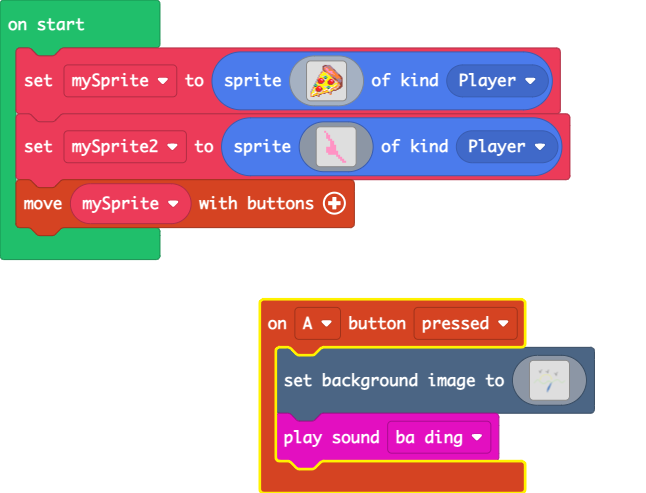
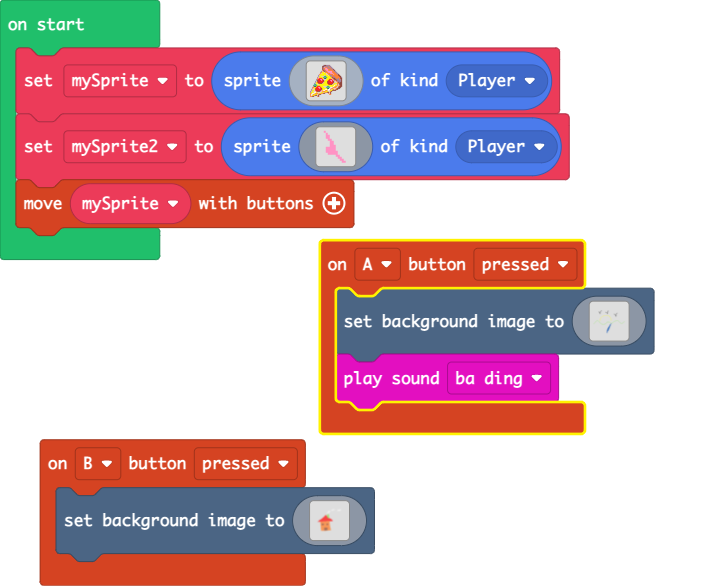
Update main.blocks, main.ts, images.g.jres, images.g.ts

diff --git a/main.ts b/main.ts
@@ -1,3 +1,127 @@
+controller.B.onEvent(ControllerButtonEvent.Pressed, function () {
+    scene.setBackgroundImage(img`
+        ................................................................................................................................................................
+        ..................................................................................................1.............................................................
+        .................................................................................................11..................................11.........................
+        ................................................................................................1.1...11...........................111..........................
+        ...............................................................................................11.1..1.1..................1.......1..11.........................
+        .............................................................................................1.1.1..1..1..11.............11......1....1.........................
+        ............................................................................................1111.1.1...111..............1.111...111..1111.......................
+        ...........................................................................................1111.1.1...11.................11.1.11.111111.........................
+        ..........................................................................................1111..11....1.................11.1111111111111........................
+        .........................................................................................1111..1.......................11..111111111............................
+        ................................................................................11.......1.............................1.....11.................................
+        ...........................................................................111.11...........................................1...................................
+        ..........................................................................1.1..1................................................................................
+        .........................................................................111.1111...............................................................................
+        .........................................................................1.111111...............................................................................
+        ........................................................................111..1.11...............................................................................
+        ........................................................................11...11.1...............................................................................
+        ......................................................................111...111.1...............................................................................
+        ......................................................................11....11..1...............................................................................
+        .....................................................................1.1....1..1................................................................................
+        .....................................................................111...11.1.................................................................................
+        ....................................................................11.1..1111..................................................................................
+        ...................................................................11..1...1....................................................................................
+        ...................................................................11..1........................................................................................
+        ..................................................................11............................................................................................
+        ................................................................................................................................................................
+        ................................................................................................................................................................
+        ................................................................................................................................................................
+        ................................................................................................................................................................
+        ........................................................................7777....................................................................................
+        ....................................................................77777777....................................................................................
+        ....................................................................77777777....................................................................................
+        ............................................................22.......7777777....................................................................................
+        ............................................................22.......7777777....................................................................................
+        ...........................................................2222......7777777....................................................................................
+        ..........................................................2222222....7777777....................................................................................
+        .........................................................222222222...7777777....................................................................................
+        ........................................................22222222222..7777777....................................................................................
+        .......................................................222222222222..7777777....................................................................................
+        ......................................................2.222222222222..7777777...................................................................................
+        .....................................................222222222222222277777777...................................................................................
+        ....................................................2222222222222222277777777...................................................................................
+        ...................................................2.222222222222222227777777...................................................................................
+        ..................................................222222222222222222227777777...................................................................................
+        .................................................2222222222222222222222777777...................................................................................
+        ................................................22222222222222222222222277777...................................................................................
+        ..............................................2222222222222222222222222222777...................................................................................
+        .............................................22222222222222222222222222222277...................................................................................
+        ............................................22222222222222222222222222222222222.................................................................................
+        ...........................................2.222222222222222222222222222222222222...............................................................................
+        ..........................................222222222222222222222222222222222222222222............................................................................
+        ........................................222222222222222222222222222222222222222222222...........................................................................
+        .......................................222222222222222222222222222222222222222222222222.........................................................................
+        ......................................222222222222222222222222222222222222222222222222222.......................................................................
+        ....................................222222222222222222222222222222222222222222222222222222......................................................................
+        ..................................22.222222222222222222222222222222222222222222222222222222.....................................................................
+        ................................22.222222222222222222222222222222222222222222222222222222222....................................................................
+        ...............................22222222222222222222222222222222222222222222222222222222222222...................................................................
+        .............................22222222222222222222222222222222222222222222222222222222222222222..................................................................
+        ............................222222222222222222222222222222222222222222222222222222222222222222..................................................................
+        ...........................22222222222222222222222222222222222222222222222222222222222222222222.................................................................
+        ..........................2222222222222222222222222222222222222222222222222222222222222222222222................................................................
+        .........................2222222222222222222222222222222222222222224444444444444................................................................................
+        ........................22222222222222222222222222222222222222224444444444444444................................................................................
+        ....................222222222222222222222222222444444444444444444444444444444444................................................................................
+        ...................................444444444444444444444444444444444444444444444................................................................................
+        ...................................444444444444444444444444444444444444444444444................................................................................
+        ...................................444444444444444444444444444444444444444444444................................................................................
+        ...................................444444444444444444444444444444444444444444444................................................................................
+        ...................................444444444444444444444444444444444444444444444................................................................................
+        ...................................444444444444444444444444444444444444444444444................................................................................
+        ...................................444444444444444444444444444444444444444444444................................................................................
+        ...................................444444444444444444444444444444444444444444444................................................................................
+        ...................................444444444444444444444444444444444444444444444................................................................................
+        ....................................44444444444444444444444444444444444444444444................................................................................
+        ....................................444444eeeeeeeeeee444444444444eeeeeeeee444444................................................................................
+        ....................................4444eeeeeeeeeeeee44444444444eeeeeeeeeee44444................................................................................
+        ....................................44444eeeeeeeeeeee444444444444eeeeeeeeee44444................................................................................
+        ....................................44444eeeeeeeeeeee444444444444eeeeeeeeee444444...............................................................................
+        ....................................44444eeeeeeeeeeee444444444444eeeeeeeee4444444...............................................................................
+        ....................................44444eeeeeeeeeeee444444444444eeeeeeeee4444444...............................................................................
+        ....................................44444eeeeeeeeeeee444444444444eeeeeeee44444444...............................................................................
+        ....................................44444eeeeeeeee444444444444444eee4444444444444...............................................................................
+        ....................................44444ee44444444444444444444444444444444444444...............................................................................
+        ....................................444444444444444444444444444444444444444444444...............................................................................
+        ....................................444444444444444444444444444444444444444444444...............................................................................
+        ....................................4444444444444444444444444444444444444444444444..............................................................................
+        .....................................444444444444444444444444444444444444444444444..............................................................................
+        .....................................444444444444444444444444444444444444444444444..............................................................................
+        .....................................444444444444444444444444444444444444444444444..............................................................................
+        .....................................4444444444444444444444444444444444444444444444.............................................................................
+        .....................................4444444444444444444444444444444444444444444444.............................................................................
+        .....................................4444444444444444444444444444444444444444444444.............................................................................
+        .....................................4444444444444444444444444444444444444444444444.............................................................................
+        .....................................44444444444444444444444444444444e4444444444444.............................................................................
+        .....................................44444444444444444eeeeeeeeeeeeeeee4444444444444.............................................................................
+        .....................................44444444444444444eeeeeeeeeeeeeeee44444444444444............................................................................
+        .....................................44444444444444444eeeeeeeeeeeeeeee44444444444444............................................................................
+        .....................................44444444444444444eeeeeeeeeeeeeeee44444444444444............................................................................
+        .....................................44444444444444444eeeeeeeeeeeeeeee444444444444444...........................................................................
+        .....................................44444444444444444eeeeeeeeeeeeeeee444444444444444...........................................................................
+        .....................................44444444444444444eeeeeeeeeeeeeeee444444444444444...........................................................................
+        ......................................4444444444444444eeeeeeeeeeeeeeee444444444444444...........................................................................
+        ......................................4444444444444444eeeeeeeeeeeeeeee444444444444444...........................................................................
+        ......................................4444444444444444eeeeeeeeeeeeeeee4444444444444444..........................................................................
+        ......................................4444444444444444eeeeeeeeeeeeeeee4444444444444444..........................................................................
+        ......................................4444444444444444eeeeeeeeeeeeeeee4444444444444444..........................................................................
+        ......................................4444444444444444eeeeeeeeeeeeeeee4444444444444444..........................................................................
+        ......................................4444444444444444eeeeeeeeee444444e444......................................................................................
+        ......................................4444444444444444e444444444................................................................................................
+        ................................................................................................................................................................
+        ................................................................................................................................................................
+        ................................................................................................................................................................
+        ................................................................................................................................................................
+        ................................................................................................................................................................
+        ................................................................................................................................................................
+        ................................................................................................................................................................
+        ................................................................................................................................................................
+        ................................................................................................................................................................
+        ................................................................................................................................................................
+        `)
+})
 controller.A.onEvent(ControllerButtonEvent.Pressed, function () {
     scene.setBackgroundImage(img`
         ................................................................................................................................................................

diff --git a/images.g.ts b/images.g.ts
@@ -177,6 +177,128 @@ b555115dddd55d544eede...........
 ....................................................................8.8.........................................................................................
 .....................................................................8..........................................................................................
 `;
+            case "image4":return img`
+................................................................................................................................................................
+..................................................................................................1.............................................................
+.................................................................................................11..................................11.........................
+................................................................................................1.1...11...........................111..........................
+...............................................................................................11.1..1.1..................1.......1..11.........................
+.............................................................................................1.1.1..1..1..11.............11......1....1.........................
+............................................................................................1111.1.1...111..............1.111...111..1111.......................
+...........................................................................................1111.1.1...11.................11.1.11.111111.........................
+..........................................................................................1111..11....1.................11.1111111111111........................
+.........................................................................................1111..1.......................11..111111111............................
+................................................................................11.......1.............................1.....11.................................
+...........................................................................111.11...........................................1...................................
+..........................................................................1.1..1................................................................................
+.........................................................................111.1111...............................................................................
+.........................................................................1.111111...............................................................................
+........................................................................111..1.11...............................................................................
+........................................................................11...11.1...............................................................................
+......................................................................111...111.1...............................................................................
+......................................................................11....11..1...............................................................................
+.....................................................................1.1....1..1................................................................................
+.....................................................................111...11.1.................................................................................
+....................................................................11.1..1111..................................................................................
+...................................................................11..1...1....................................................................................
+...................................................................11..1........................................................................................
+..................................................................11............................................................................................
+................................................................................................................................................................
+................................................................................................................................................................
+................................................................................................................................................................
+................................................................................................................................................................
+........................................................................7777....................................................................................
+....................................................................77777777....................................................................................
+....................................................................77777777....................................................................................
+............................................................22.......7777777....................................................................................
+............................................................22.......7777777....................................................................................
+...........................................................2222......7777777....................................................................................
+..........................................................2222222....7777777....................................................................................
+.........................................................222222222...7777777....................................................................................
+........................................................22222222222..7777777....................................................................................
+.......................................................222222222222..7777777....................................................................................
+......................................................2.222222222222..7777777...................................................................................
+.....................................................222222222222222277777777...................................................................................
+....................................................2222222222222222277777777...................................................................................
+...................................................2.222222222222222227777777...................................................................................
+..................................................222222222222222222227777777...................................................................................
+.................................................2222222222222222222222777777...................................................................................
+................................................22222222222222222222222277777...................................................................................
+..............................................2222222222222222222222222222777...................................................................................
+.............................................22222222222222222222222222222277...................................................................................
+............................................22222222222222222222222222222222222.................................................................................
+...........................................2.222222222222222222222222222222222222...............................................................................
+..........................................222222222222222222222222222222222222222222............................................................................
+........................................222222222222222222222222222222222222222222222...........................................................................
+.......................................222222222222222222222222222222222222222222222222.........................................................................
+......................................222222222222222222222222222222222222222222222222222.......................................................................
+....................................222222222222222222222222222222222222222222222222222222......................................................................
+..................................22.222222222222222222222222222222222222222222222222222222.....................................................................
+................................22.222222222222222222222222222222222222222222222222222222222....................................................................
+...............................22222222222222222222222222222222222222222222222222222222222222...................................................................
+.............................22222222222222222222222222222222222222222222222222222222222222222..................................................................
+............................222222222222222222222222222222222222222222222222222222222222222222..................................................................
+...........................22222222222222222222222222222222222222222222222222222222222222222222.................................................................
+..........................2222222222222222222222222222222222222222222222222222222222222222222222................................................................
+.........................2222222222222222222222222222222222222222224444444444444................................................................................
+........................22222222222222222222222222222222222222224444444444444444................................................................................
+....................222222222222222222222222222444444444444444444444444444444444................................................................................
+...................................444444444444444444444444444444444444444444444................................................................................
+...................................444444444444444444444444444444444444444444444................................................................................
+...................................444444444444444444444444444444444444444444444................................................................................
+...................................444444444444444444444444444444444444444444444................................................................................
+...................................444444444444444444444444444444444444444444444................................................................................
+...................................444444444444444444444444444444444444444444444................................................................................
+...................................444444444444444444444444444444444444444444444................................................................................
+...................................444444444444444444444444444444444444444444444................................................................................
+...................................444444444444444444444444444444444444444444444................................................................................
+....................................44444444444444444444444444444444444444444444................................................................................
+....................................444444eeeeeeeeeee444444444444eeeeeeeee444444................................................................................
+....................................4444eeeeeeeeeeeee44444444444eeeeeeeeeee44444................................................................................
+....................................44444eeeeeeeeeeee444444444444eeeeeeeeee44444................................................................................
+....................................44444eeeeeeeeeeee444444444444eeeeeeeeee444444...............................................................................
+....................................44444eeeeeeeeeeee444444444444eeeeeeeee4444444...............................................................................
+....................................44444eeeeeeeeeeee444444444444eeeeeeeee4444444...............................................................................
+....................................44444eeeeeeeeeeee444444444444eeeeeeee44444444...............................................................................
+....................................44444eeeeeeeee444444444444444eee4444444444444...............................................................................
+....................................44444ee44444444444444444444444444444444444444...............................................................................
+....................................444444444444444444444444444444444444444444444...............................................................................
+....................................444444444444444444444444444444444444444444444...............................................................................
+....................................4444444444444444444444444444444444444444444444..............................................................................
+.....................................444444444444444444444444444444444444444444444..............................................................................
+.....................................444444444444444444444444444444444444444444444..............................................................................
+.....................................444444444444444444444444444444444444444444444..............................................................................
+.....................................4444444444444444444444444444444444444444444444.............................................................................
+.....................................4444444444444444444444444444444444444444444444.............................................................................
+.....................................4444444444444444444444444444444444444444444444.............................................................................
+.....................................4444444444444444444444444444444444444444444444.............................................................................
+.....................................44444444444444444444444444444444e4444444444444.............................................................................
+.....................................44444444444444444eeeeeeeeeeeeeeee4444444444444.............................................................................
+.....................................44444444444444444eeeeeeeeeeeeeeee44444444444444............................................................................
+.....................................44444444444444444eeeeeeeeeeeeeeee44444444444444............................................................................
+.....................................44444444444444444eeeeeeeeeeeeeeee44444444444444............................................................................
+.....................................44444444444444444eeeeeeeeeeeeeeee444444444444444...........................................................................
+.....................................44444444444444444eeeeeeeeeeeeeeee444444444444444...........................................................................
+.....................................44444444444444444eeeeeeeeeeeeeeee444444444444444...........................................................................
+......................................4444444444444444eeeeeeeeeeeeeeee444444444444444...........................................................................
+......................................4444444444444444eeeeeeeeeeeeeeee444444444444444...........................................................................
+......................................4444444444444444eeeeeeeeeeeeeeee4444444444444444..........................................................................
+......................................4444444444444444eeeeeeeeeeeeeeee4444444444444444..........................................................................
+......................................4444444444444444eeeeeeeeeeeeeeee4444444444444444..........................................................................
+......................................4444444444444444eeeeeeeeeeeeeeee4444444444444444..........................................................................
+......................................4444444444444444eeeeeeeeee444444e444......................................................................................
+......................................4444444444444444e444444444................................................................................................
+................................................................................................................................................................
+................................................................................................................................................................
+................................................................................................................................................................
+................................................................................................................................................................
+................................................................................................................................................................
+................................................................................................................................................................
+................................................................................................................................................................
+................................................................................................................................................................
+................................................................................................................................................................
+................................................................................................................................................................
+`;
         }
         return null;
     })
